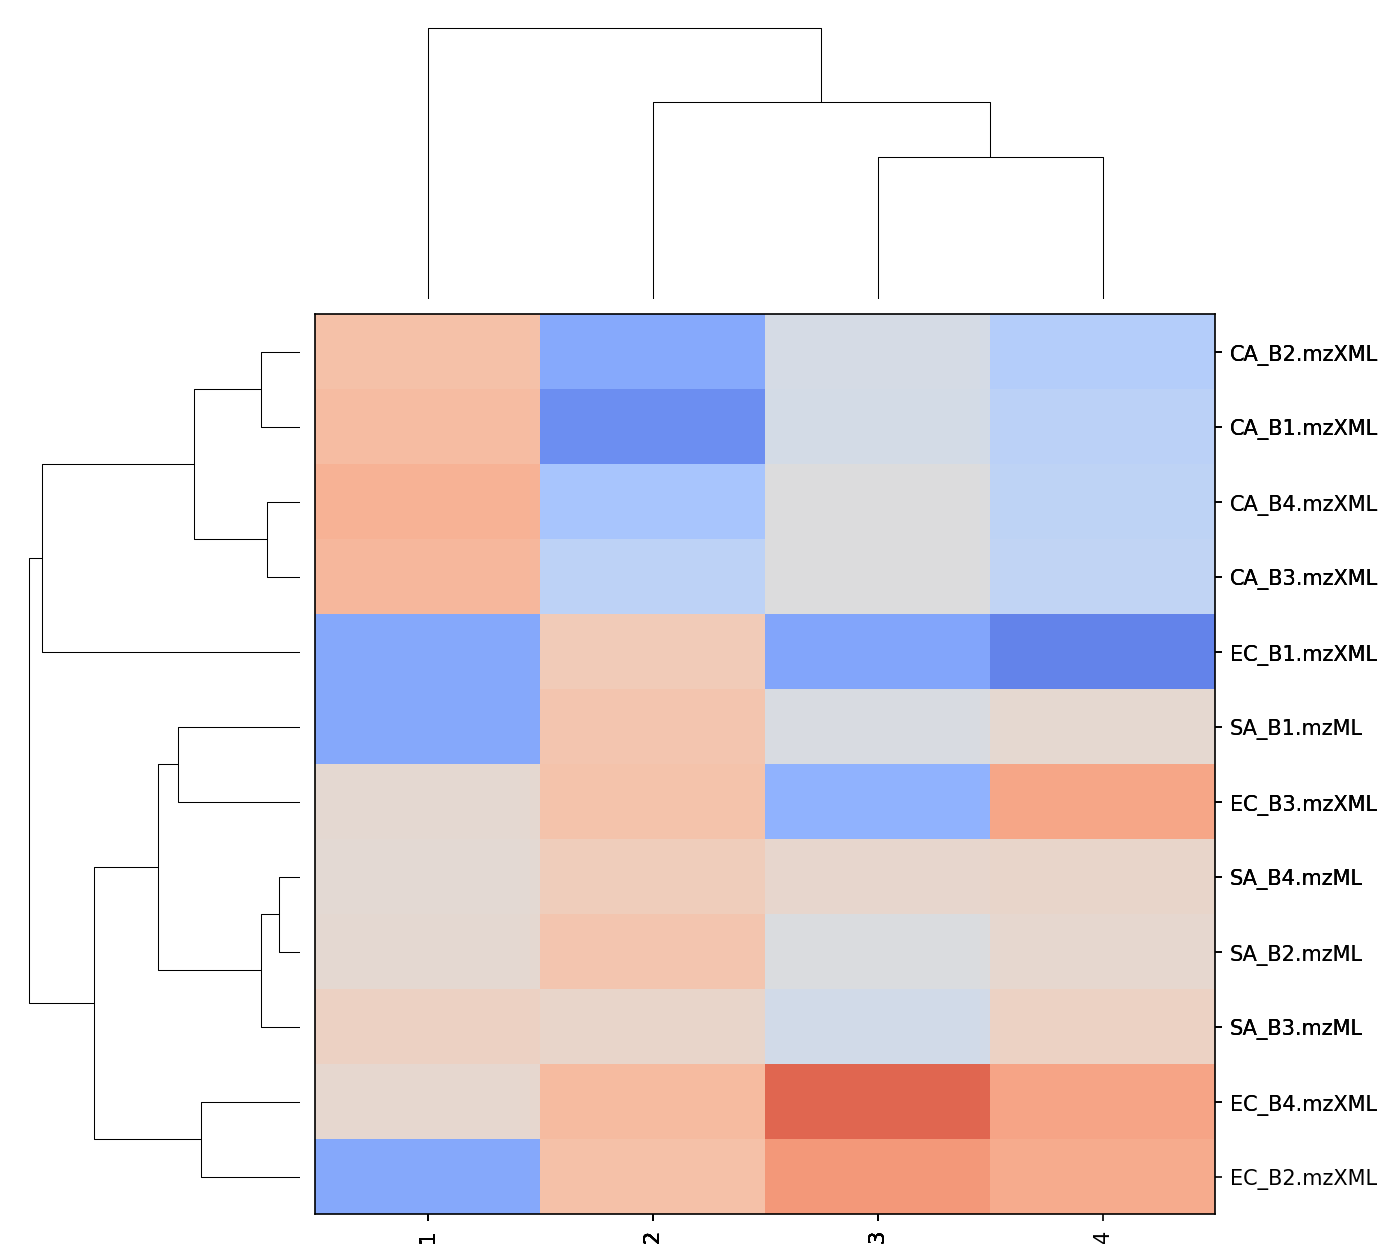
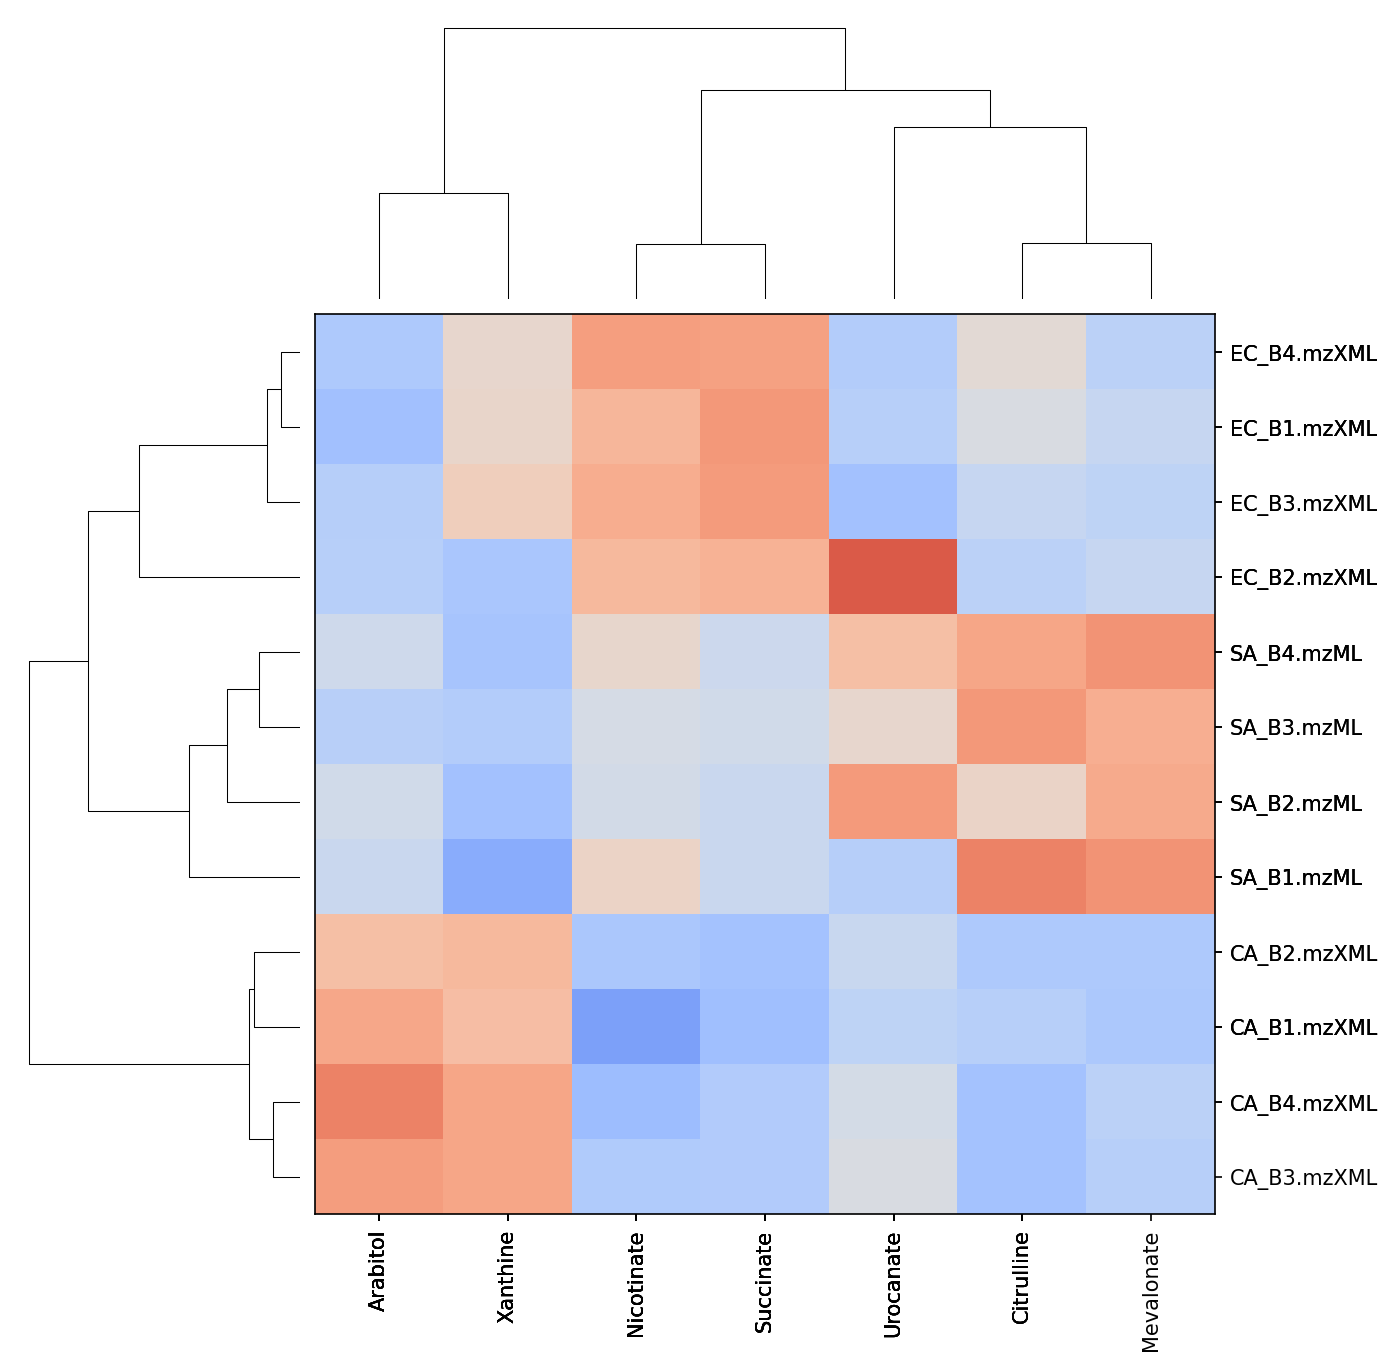
documentation

diff --git a/ms_mint/matplotlib_tools.py b/ms_mint/matplotlib_tools.py
@@ -177,6 +177,8 @@ def plot_peak_shapes(
 
     R = mint_results.copy()
 
+
+
     if peak_labels is not None:
         if isinstance(peak_labels, str):
             peak_labels = [peak_labels]
@@ -205,7 +207,7 @@ def plot_peak_shapes(
             )
             dfs.append(df)
 
-    df = pd.concat(dfs)
+    df = pd.concat(dfs).reset_index(drop=True)
 
     g = sns.relplot(
         data=df,

diff --git a/README.md b/README.md
@@ -47,14 +47,17 @@ The project follows PEP8 standard and uses Black and Flake8 to ensure a consiste
         './input/SA_B3.mzML'
     ]
 
-    mint.load_targets('/home/swacker/workspace/ms-mint/tests/data/targets/targets_v0.csv')
+    mint.load_targets('targets.csv')
     
     mint.targets
-    >>>   peak_label    mz_mean  mz_width    rt  rt_min  rt_max  intensity_threshold target_filename
-        0          1  151.06050         5  None    5.07    5.09                    0  targets_v0.csv
-        1          2  216.05040         5  None    3.98    4.39                    0  targets_v0.csv
-        2          3  115.00320         5  None    3.45    4.39                    0  targets_v0.csv
-        3          4  273.00061         5  None    1.10    2.22                    0  targets_v0.csv
+    >>>    peak_label    mz_mean  mz_width       rt  rt_min  rt_max  intensity_threshold target_filename
+        0    Arabitol  151.06050        10  4.92500    4.65    5.20                    0     targets.csv
+        1    Xanthine  151.02585        10  4.37265    4.18    4.53                    0     targets.csv
+        2   Succinate  117.01905        10  2.04390    0.87    2.50                    0     targets.csv
+        3   Urocanate  137.03540        10  4.41500    4.30    4.60                    0     targets.csv
+        4  Mevalonate  147.06570        10  3.00000    1.70    4.30                    0     targets.csv
+        5  Nicotinate  122.02455        10  3.05340    2.75    3.75                    0     targets.csv
+        6  Citrulline  174.08810        10  8.40070    8.35    8.50                    0     targets.csv
 
     mint.run()
 
@@ -65,10 +68,21 @@ The project follows PEP8 standard and uses Black and Flake8 to ensure a consiste
 
 ![](https://github.com/LewisResearchGroup/ms-mint/blob/develop/images/results-example.png)
 
+
     mint.plot.hierarchical_clustering()
 
-
 ![](https://github.com/LewisResearchGroup/ms-mint/blob/develop/images/hierarchical-clustering.png)
+
+
+    mint.plot.peak_shapes(hue=None, col_wrap=3, height=2)
+
+![](https://github.com/LewisResearchGroup/ms-mint/blob/develop/images/peak-shapes.png)
+
+
+    mint.plot.heatmap(normed_by_cols=True, transposed=True, clustered=True)
+
+![](https://github.com/LewisResearchGroup/ms-mint/blob/develop/images/heatmap.png)
+
 
 
 # FAQ
@@ -94,6 +108,7 @@ The target list can be stored as csv or Excel file.
 
 ## Which properties does ms-mint extract?
 
+### Parameters from target list
 - **ms_file**: Filename of MS-file
 - **peak_label**: From target list
 - **mz_mean**: From target list
@@ -105,6 +120,8 @@ The target list can be stored as csv or Excel file.
 - **target_filename**: From target list
 
 ---
+
+### Results columns
 - **peak_area**: The sum of all intensities
 - **peak_area_top3**: The sum of the 3 largest intensities
 - **peak_n_datapoints**: Number of datapoints
